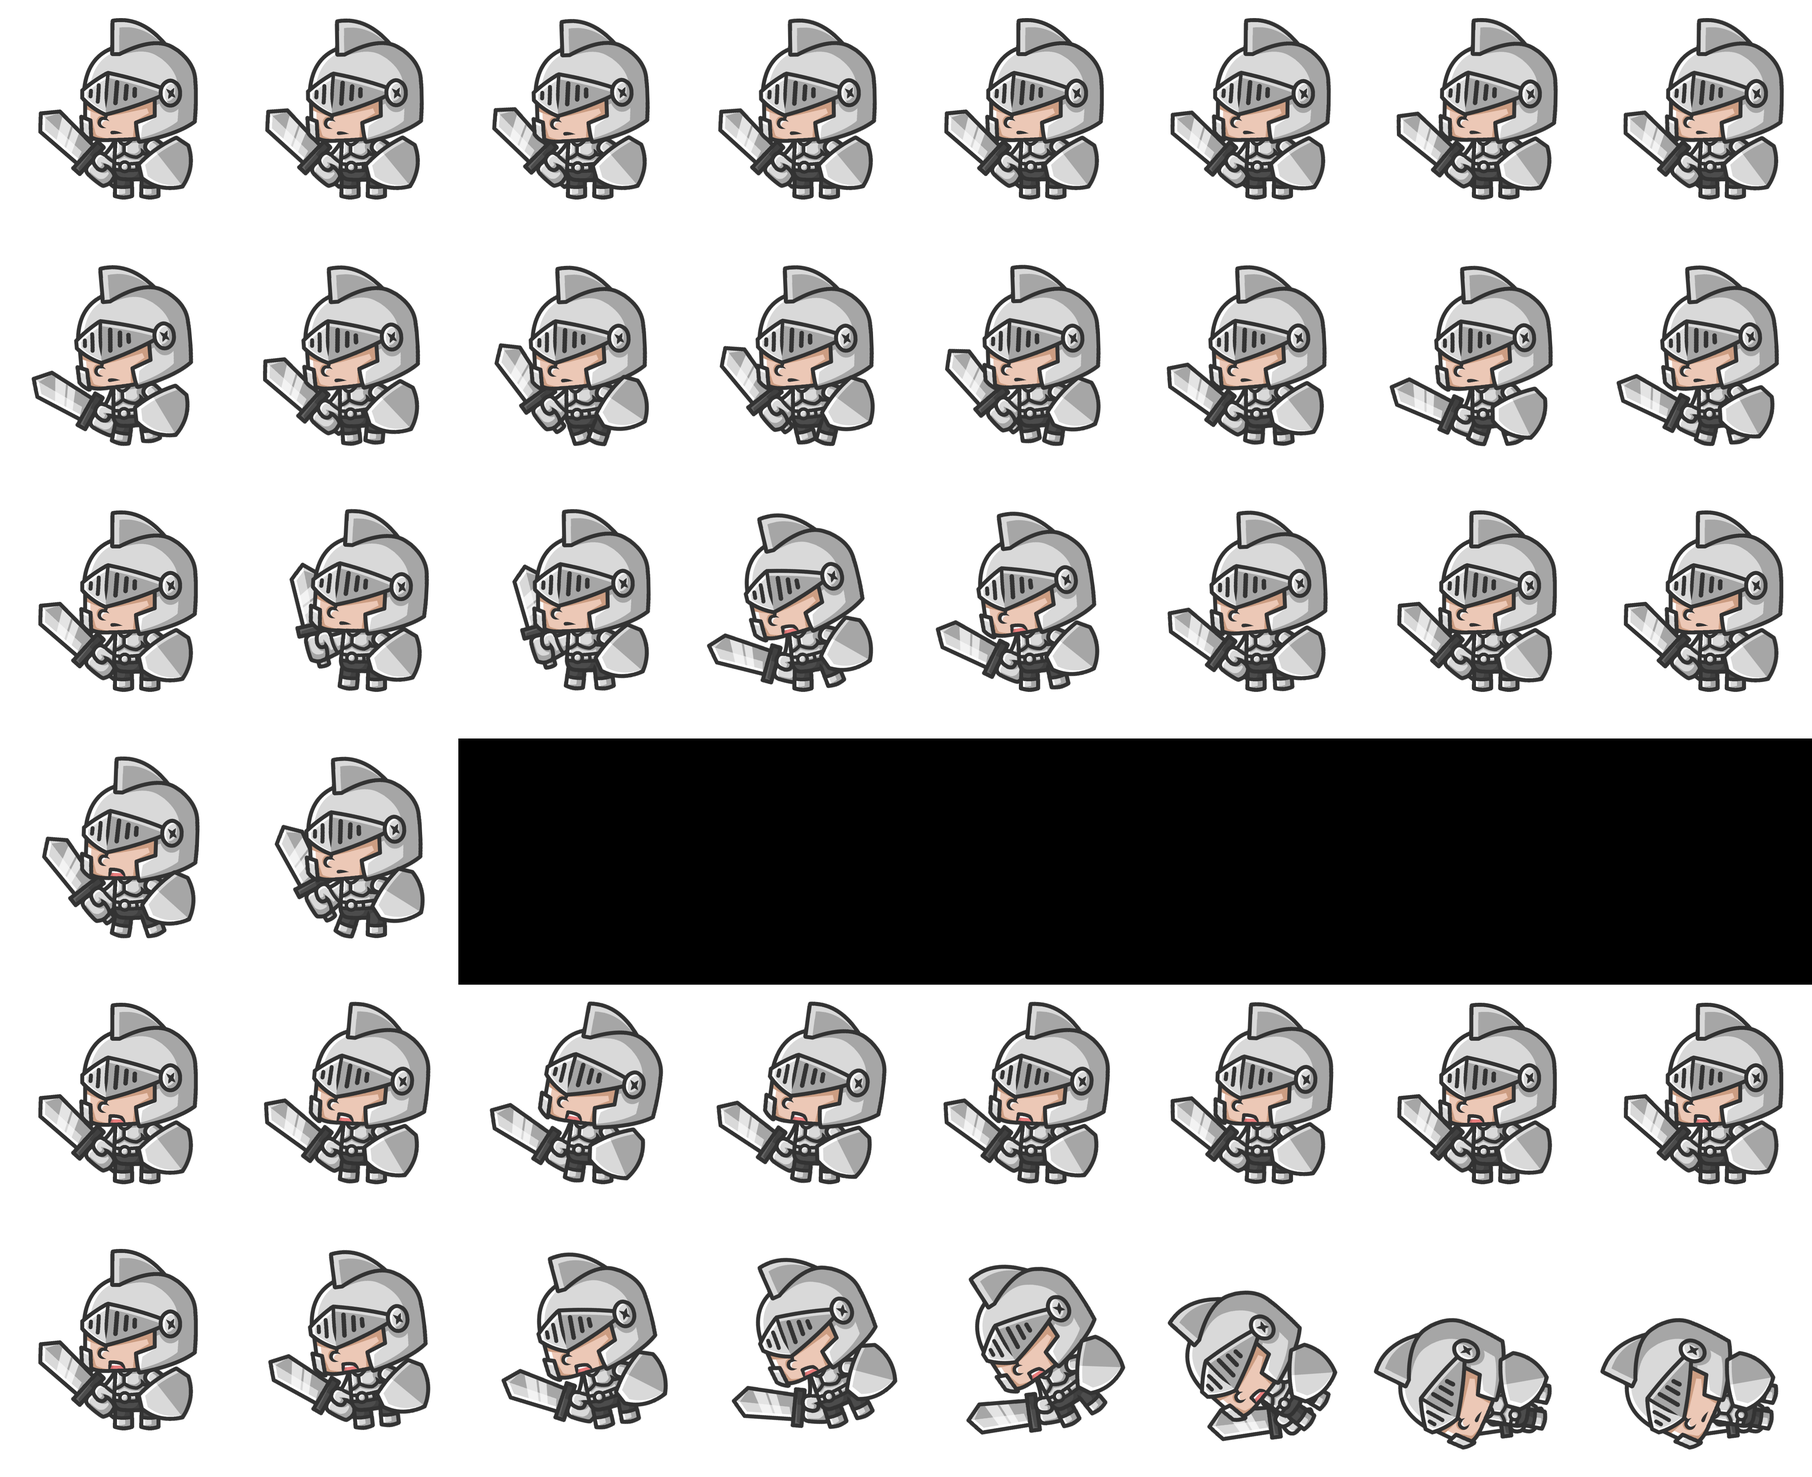
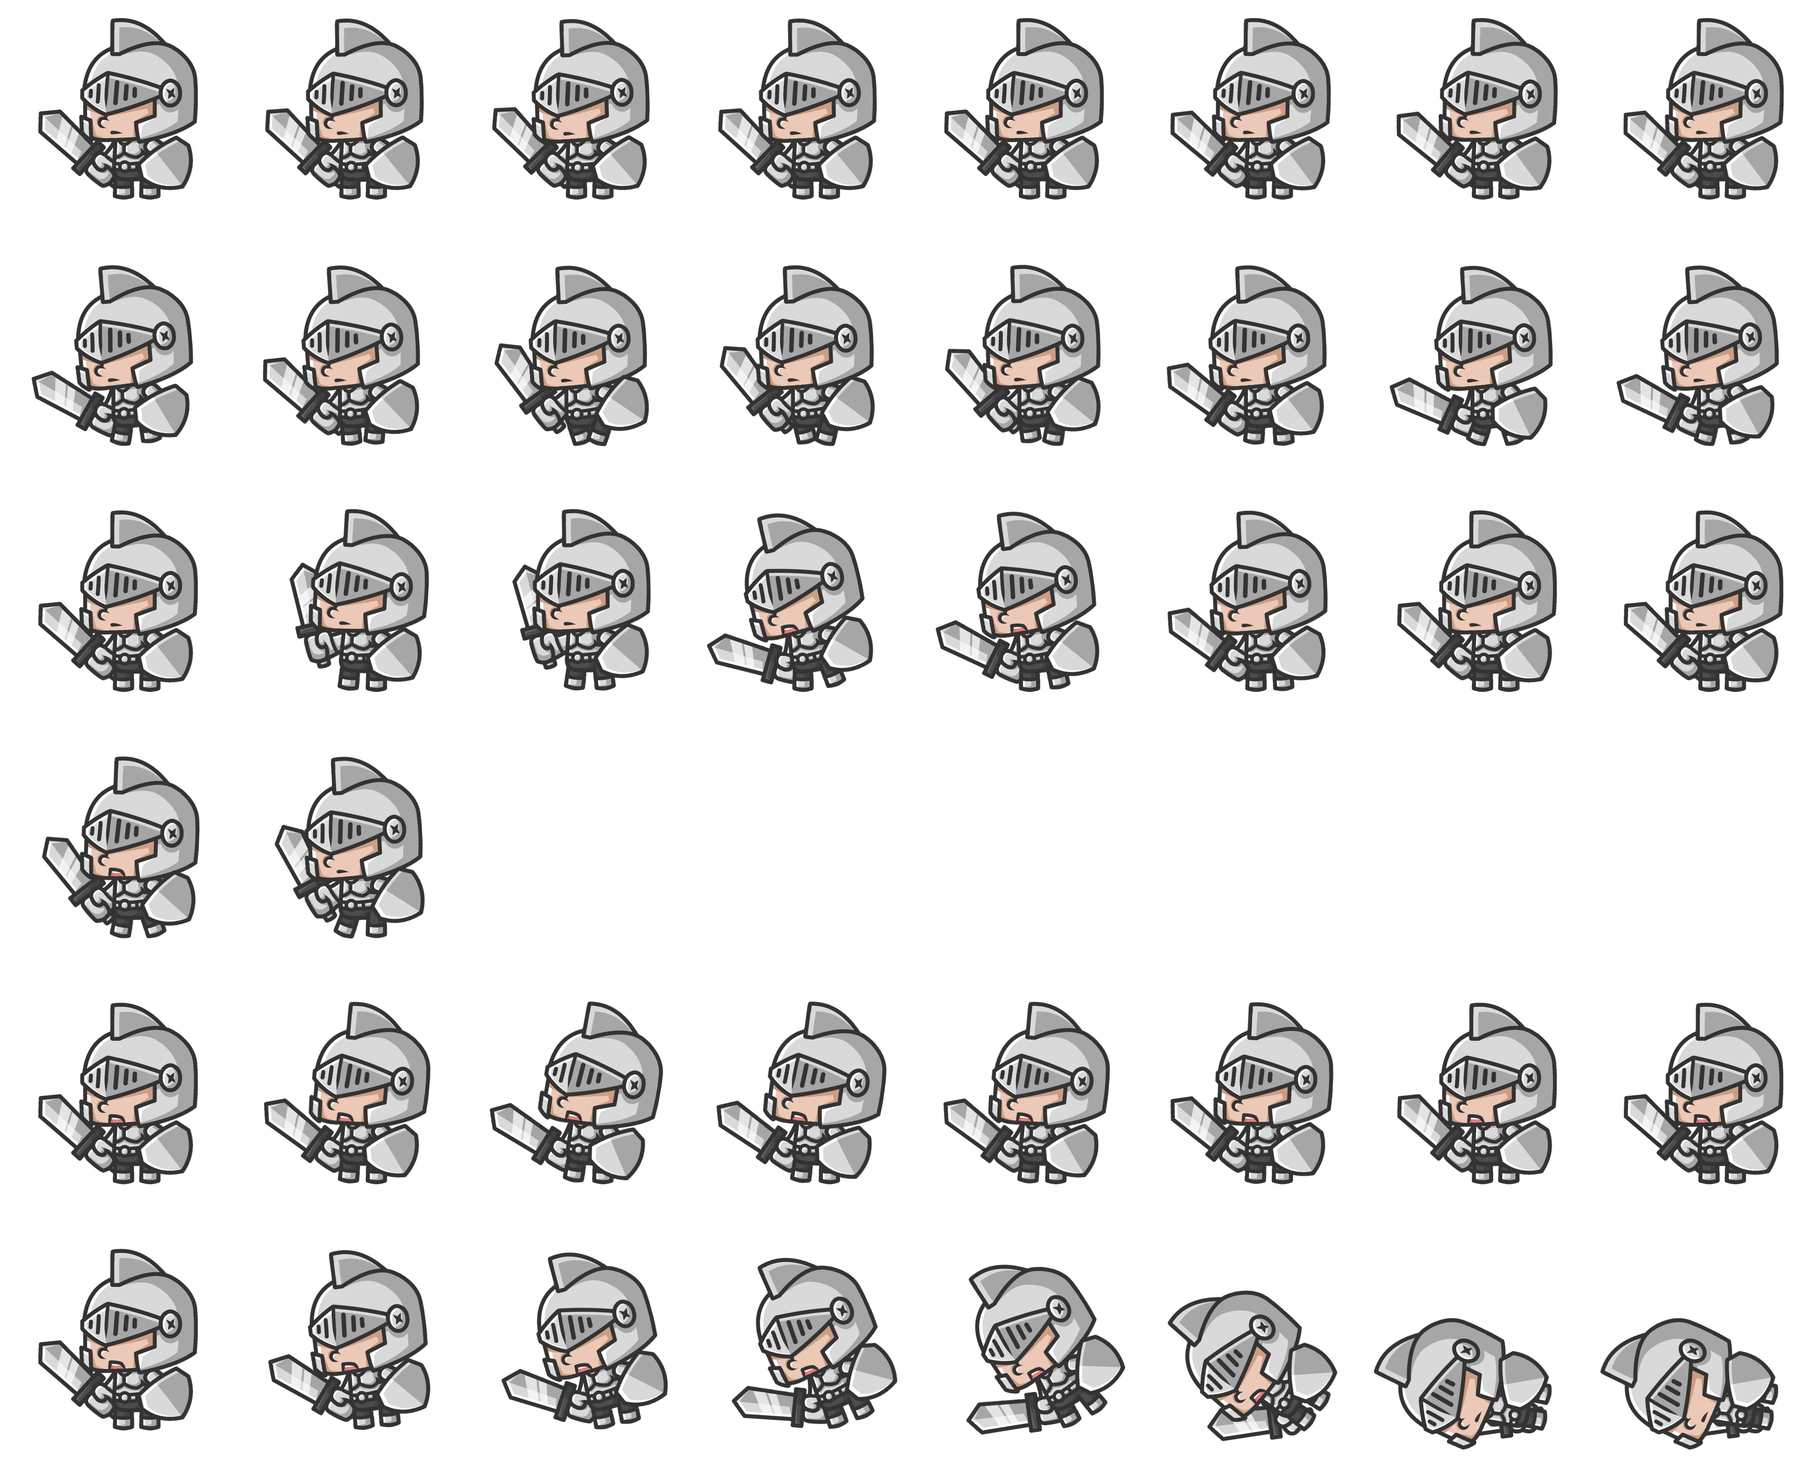
점프시 검은색 픽셀오류 수정
궁극기추가(s)로 발동

Changed region(s): [[0.2491, 0.4994, 1.0, 0.6867]]

diff --git a/prac.c b/prac.c
@@ -5,7 +5,6 @@
 #include <stdbool.h>
 #include <math.h>
 
-// 해상도 설정
 const int SCREEN_W = 1280;
 const int SCREEN_H = 720;
 const int GROUND_Y = 540; 
@@ -17,13 +16,18 @@ typedef enum { S_GREEN, S_BLUE, S_RED, S_YELLOW } SlimeColor;
 
 struct Player {
     float x, y, dy;
-    int hp, mp;
+    int hp, max_hp;
+    int lv, exp;
+    int atk;
     PlayerState state;
     int frame, timer, max_frames;
     int attack_timer, hurt_timer, inv_timer;
+    int ult_visual_timer; 
+    bool ult_used; // ★ 궁극기 사용 여부 플래그 추가
     bool isGrounded;
     SDL_RendererFlip flip;
-} player = {100, 540, 0, 100, 50, IDLE, 0, 0, 8, 0, 0, 0, true, SDL_FLIP_NONE};
+    int ground_offset; 
+} player = {100, 440, 0, 100, 100, 1, 0, 40, IDLE, 0, 0, 8, 0, 0, 0, 0, false, true, SDL_FLIP_NONE, 100};
 
 struct Monster {
     float x, y;
@@ -34,6 +38,7 @@ struct Monster {
     int frame, timer;
     int size; 
     int hurt_timer;
+    float speed;
 };
 
 struct Item { float x, y; bool active; } potion = {0, 0, false};
@@ -44,19 +49,30 @@ int currentStage = 1;
 int monsterCount = 1;
 GameState gameState = STATE_PLAYING;
 
-// 스테이지 초기화 함수
+void checkLevelUp() {
+    if (player.lv < 3 && player.exp >= 2) {
+        player.lv++;
+        player.exp = 0;
+        if (player.lv == 2) {
+            player.atk = 65; player.max_hp = 150; player.hp = player.max_hp;
+        } else if (player.lv == 3) {
+            player.atk = 100; player.max_hp = 200; player.hp = player.max_hp;
+        }
+    }
+}
+
 void initStage(int stage) {
     if (stage == 1) {
         monsterCount = 1;
-        monsters[0] = (struct Monster){900, GROUND_Y - 140, 100, 100, true, false, M_IDLE, S_GREEN, 0, 0, 150, 0};
+        monsters[0] = (struct Monster){900, GROUND_Y - 140, 100, 100, true, false, M_IDLE, S_GREEN, 0, 0, 150, 0, 1.8f}; 
     } else if (stage == 2) {
         monsterCount = 3;
-        monsters[0] = (struct Monster){700, GROUND_Y - 130, 80, 80, true, false, M_IDLE, S_BLUE, 0, 0, 130, 0};
-        monsters[1] = (struct Monster){900, GROUND_Y - 130, 80, 80, true, false, M_IDLE, S_BLUE, 0, 0, 130, 0};
-        monsters[2] = (struct Monster){1100, GROUND_Y - 140, 100, 100, true, false, M_IDLE, S_RED, 0, 0, 150, 0};
+        monsters[0] = (struct Monster){700, GROUND_Y - 130, 100, 100, true, false, M_IDLE, S_BLUE, 0, 0, 130, 0, 2.2f};
+        monsters[1] = (struct Monster){900, GROUND_Y - 130, 100, 100, true, false, M_IDLE, S_BLUE, 0, 0, 130, 0, 2.0f};
+        monsters[2] = (struct Monster){1100, GROUND_Y - 140, 180, 180, true, false, M_IDLE, S_RED, 0, 0, 150, 0, 1.5f};
     } else if (stage == 3) {
         monsterCount = 1;
-        monsters[0] = (struct Monster){900, GROUND_Y - 340, 500, 500, true, true, M_IDLE, S_YELLOW, 0, 0, 400, 0};
+        monsters[0] = (struct Monster){900, GROUND_Y - 340, 1000, 1000, true, true, M_IDLE, S_YELLOW, 0, 0, 400, 0, 1.0f};
     }
     potion.active = false;
     bossBullet.active = false;
@@ -78,7 +94,7 @@ int main(int argc, char* argv[]) {
     IMG_Init(IMG_INIT_PNG);
     TTF_Init();
 
-    SDL_Window* win = SDL_CreateWindow("C-RPG Final Edition (1280x720)", SDL_WINDOWPOS_CENTERED, SDL_WINDOWPOS_CENTERED, SCREEN_W, SCREEN_H, 0);
+    SDL_Window* win = SDL_CreateWindow("C-RPG: Ult Limited", SDL_WINDOWPOS_CENTERED, SDL_WINDOWPOS_CENTERED, SCREEN_W, SCREEN_H, 0);
     SDL_Renderer* ren = SDL_CreateRenderer(win, -1, SDL_RENDERER_ACCELERATED);
 
     TTF_Font* font = TTF_OpenFont("font.ttf", 28);
@@ -92,7 +108,6 @@ int main(int argc, char* argv[]) {
     SDL_Texture* bgTex1 = IMG_LoadTexture(ren, "bg_stage1.png");
     SDL_Texture* bgTex2 = IMG_LoadTexture(ren, "bg_stage2.png");
     SDL_Texture* bgTexBoss = IMG_LoadTexture(ren, "bg_boss.png");
-    
     SDL_Texture* iTex = IMG_LoadTexture(ren, "item.png");
     SDL_SetTextureBlendMode(iTex, SDL_BLENDMODE_BLEND);
 
@@ -110,21 +125,34 @@ int main(int argc, char* argv[]) {
                         player.attack_timer = 30; player.state = ATTACK; player.frame = 0;
                         for(int i=0; i<monsterCount; i++) {
                             if (monsters[i].alive && monsters[i].animState != M_DEAD) {
-                                float range = monsters[i].isBoss ? 300 : 180;
-                                if (fabs(player.x - monsters[i].x) < range) {
-                                    monsters[i].hp -= 40;
-                                    if (monsters[i].hp <= 0) { monsters[i].animState = M_DEAD; monsters[i].frame = 0; }
+                                float range = monsters[i].isBoss ? 400 : 220;
+                                if (fabs((player.x + 90) - (monsters[i].x + monsters[i].size/2)) < range && 
+                                    fabs((player.y + 100) - (monsters[i].y + monsters[i].size/2)) < 300) {
+                                    monsters[i].hp -= player.atk;
+                                    if (monsters[i].hp <= 0) { monsters[i].animState = M_DEAD; monsters[i].frame = 0; player.exp++; checkLevelUp(); }
                                     else { monsters[i].animState = M_HURT; monsters[i].hurt_timer = 20; monsters[i].frame = 0; }
                                 }
                             }
                         }
                     }
+                    // 궁극기 (S) - 레벨 3이고 아직 사용하지 않았을 때만 가능
+                    if (ev.key.keysym.sym == SDLK_s && player.lv == 3 && !player.ult_used && player.ult_visual_timer <= 0) {
+                        player.ult_visual_timer = 40; 
+                        player.ult_used = true; // ★ 사용됨으로 표시
+                        for(int i=0; i<monsterCount; i++) {
+                            if (monsters[i].alive && monsters[i].animState != M_DEAD) {
+                                monsters[i].hp -= 250; 
+                                if (monsters[i].hp <= 0) { monsters[i].animState = M_DEAD; monsters[i].frame = 0; player.exp++; checkLevelUp(); }
+                                else { monsters[i].animState = M_HURT; monsters[i].hurt_timer = 30; }
+                            }
+                        }
+                    }
                     if (ev.key.keysym.sym == SDLK_SPACE && player.isGrounded && player.attack_timer <= 0) {
-                        player.dy = -18.0f; player.isGrounded = false;
+                        player.dy = -22.0f; player.isGrounded = false;
                     }
                 } else if (ev.key.keysym.sym == SDLK_r) { 
                     currentStage = 1; initStage(1);
-                    player = (struct Player){100, 540, 0, 100, 50, IDLE, 0, 0, 8, 0, 0, 0, true, SDL_FLIP_NONE};
+                    player = (struct Player){100, 440, 0, 100, 100, 1, 0, 40, IDLE, 0, 0, 8, 0, 0, 0, 0, false, true, SDL_FLIP_NONE, 100};
                     gameState = STATE_PLAYING;
                 }
             }
@@ -132,8 +160,8 @@ int main(int argc, char* argv[]) {
 
         if (gameState == STATE_PLAYING) {
             const Uint8* ks = SDL_GetKeyboardState(NULL);
-            if (!player.isGrounded) { player.dy += 1.0f; player.y += player.dy; }
-            if (player.y >= GROUND_Y) { player.y = GROUND_Y; player.dy = 0; player.isGrounded = true; }
+            if (!player.isGrounded) { player.dy += 1.2f; player.y += player.dy; }
+            if (player.y >= GROUND_Y - player.ground_offset) { player.y = GROUND_Y - player.ground_offset; player.dy = 0; player.isGrounded = true; }
 
             if (player.hp > 0 && player.hurt_timer <= 0 && player.attack_timer <= 0) {
                 if (ks[SDL_SCANCODE_LEFT] && player.x > 0) { player.x -= 7; player.state = RUN; player.flip = SDL_FLIP_NONE; }
@@ -152,10 +180,7 @@ int main(int argc, char* argv[]) {
                     monsters[i].timer++;
                     if (monsters[i].timer >= 6) {
                         monsters[i].frame++;
-                        if (monsters[i].frame >= 6) { 
-                            monsters[i].alive = false; 
-                            if (!potion.active) { potion.x = monsters[i].x; potion.y = GROUND_Y + 50; potion.active = true; }
-                        }
+                        if (monsters[i].frame >= 6) { monsters[i].alive = false; if (!potion.active) { potion.x = monsters[i].x; potion.y = GROUND_Y + 50; potion.active = true; } }
                         monsters[i].timer = 0;
                     }
                 } else if (monsters[i].animState == M_HURT) {
@@ -163,8 +188,13 @@ int main(int argc, char* argv[]) {
                     if (monsters[i].timer >= 5) { monsters[i].frame = (monsters[i].frame + 1) % 4; monsters[i].timer = 0; }
                     if (monsters[i].hurt_timer <= 0) monsters[i].animState = M_IDLE;
                 } else {
-                    float dist = fabs(player.x - monsters[i].x);
-                    if (dist < 250 && monsters[i].animState == M_IDLE) monsters[i].animState = M_ATTACK;
+                    float dist = fabs((player.x + 90) - (monsters[i].x + monsters[i].size/2));
+                    float stopDist = monsters[i].isBoss ? 350.0f : 110.0f;
+                    if (dist > stopDist && monsters[i].animState != M_ATTACK) {
+                        if (monsters[i].x < player.x) monsters[i].x += monsters[i].speed;
+                        else if (monsters[i].x > player.x) monsters[i].x -= monsters[i].speed;
+                    } else if (monsters[i].animState == M_IDLE) monsters[i].animState = M_ATTACK;
+
                     monsters[i].timer++;
                     if (monsters[i].timer >= 8) {
                         int m_max = (monsters[i].animState == M_IDLE) ? 8 : 6;
@@ -172,23 +202,20 @@ int main(int argc, char* argv[]) {
                         if (monsters[i].animState == M_ATTACK && monsters[i].frame == 0) monsters[i].animState = M_IDLE;
                         monsters[i].timer = 0;
                     }
-                    int collX = monsters[i].isBoss ? 160 : 70;
-                    if (player.inv_timer <= 0 && dist < collX && fabs(player.y - monsters[i].y) < 250) {
+                    int collX = monsters[i].isBoss ? 200 : 100;
+                    if (player.inv_timer <= 0 && dist < collX && fabs((player.y + 100) - (monsters[i].y + monsters[i].size/2)) < 200) {
                         player.hp -= 15; player.hurt_timer = 25; player.inv_timer = 60;
                         player.x += (player.x < monsters[i].x) ? -100 : 100;
                     }
                 }
             }
 
-            if (potion.active && fabs(player.x - potion.x) < 60) {
-                player.hp = (player.hp + 30 > 100) ? 100 : player.hp + 30; potion.active = false;
-            }
-
+            if (potion.active && fabs(player.x - potion.x) < 60) { player.hp = (player.hp + 30 > player.max_hp) ? player.max_hp : player.hp + 30; potion.active = false; }
             if (currentStage == 3 && monsters[0].alive && monsters[0].animState != M_DEAD) {
                 bossAttackTimer++;
                 if (bossAttackTimer > 90) {
                     bossBullet.active = true; bossBullet.x = monsters[0].x + 180; bossBullet.y = monsters[0].y + 180;
-                    float dx = player.x - bossBullet.x, dy = player.y - bossBullet.y;
+                    float dx = (player.x + 90) - bossBullet.x, dy = (player.y + 100) - bossBullet.y;
                     float d = sqrt(dx*dx + dy*dy);
                     bossBullet.vx = (dx/d)*10; bossBullet.vy = (dy/d)*10;
                     bossAttackTimer = 0;
@@ -196,48 +223,48 @@ int main(int argc, char* argv[]) {
             }
             if (bossBullet.active) {
                 bossBullet.x += bossBullet.vx; bossBullet.y += bossBullet.vy;
-                if (player.inv_timer <= 0 && fabs(player.x-bossBullet.x)<50 && fabs(player.y-bossBullet.y)<120) {
+                if (player.inv_timer <= 0 && fabs((player.x+90)-bossBullet.x)<50 && fabs((player.y+100)-bossBullet.y)<100) {
                     player.hp -= 10; player.hurt_timer = 20; player.inv_timer = 40; bossBullet.active = false;
                 }
                 if (bossBullet.x < 0 || bossBullet.x > SCREEN_W || bossBullet.y > SCREEN_H) bossBullet.active = false;
             }
-
             bool allDead = true;
             for(int i=0; i<monsterCount; i++) if (monsters[i].alive) allDead = false;
-            if (allDead) {
-                if (currentStage < 3) { currentStage++; initStage(currentStage); player.x = 100; }
-                else gameState = STATE_VICTORY;
-            }
+            if (allDead) { if (currentStage < 3) { currentStage++; initStage(currentStage); player.x = 100; } else gameState = STATE_VICTORY; }
             if (player.hp <= 0) gameState = STATE_GAME_OVER;
-            
             player.timer++;
             if (player.timer >= 7) {
-                // 점프 시 이미지 개수에 맞게 최대 프레임을 2로 제한 (검은 박스 방지)
                 player.max_frames = (player.state == JUMP) ? 2 : 8;
                 if (player.state == DIE && player.frame == 7) player.frame = 7;
                 else player.frame = (player.frame + 1) % player.max_frames;
                 player.timer = 0;
             }
             if (player.inv_timer > 0) player.inv_timer--;
+            if (player.ult_visual_timer > 0) player.ult_visual_timer--; 
         }
 
         // --- 렌더링 ---
         SDL_RenderClear(ren);
         SDL_Rect bgRect = {0, 0, SCREEN_W, SCREEN_H};
-        
-        SDL_Texture* curBG = bgTex1;
-        if (currentStage == 2) curBG = bgTex2;
-        else if (currentStage == 3) curBG = bgTexBoss;
-        SDL_RenderCopy(ren, curBG, NULL, &bgRect);
+        SDL_RenderCopy(ren, (currentStage == 1 ? bgTex1 : (currentStage == 2 ? bgTex2 : bgTexBoss)), NULL, &bgRect);
 
         if (gameState != STATE_PLAYING) {
             SDL_Color col = (gameState == STATE_VICTORY) ? (SDL_Color){0,255,0} : (SDL_Color){255,0,0};
             drawText(ren, bigFont, (gameState == STATE_VICTORY) ? "VICTORY!" : "GAME OVER", SCREEN_W/2 - 200, SCREEN_H/2 - 100, col);
             drawText(ren, font, "Press 'R' to Restart", SCREEN_W/2 - 120, SCREEN_H/2 + 50, (SDL_Color){255,255,255});
         } else {
+            // 몬스터 및 아이템 렌더링 (동일)
             if (potion.active) { SDL_Rect iR = {(int)potion.x, (int)potion.y, 60, 60}; SDL_RenderCopy(ren, iTex, NULL, &iR); }
             for(int i=0; i<monsterCount; i++) {
                 if (monsters[i].alive) {
+                    int m_hpBarW = monsters[i].isBoss ? 250 : 100;
+                    int m_hpBarY = (int)monsters[i].y + (int)(monsters[i].size * 0.2f); 
+                    SDL_Rect m_hpBG = {(int)monsters[i].x + (monsters[i].size - m_hpBarW)/2, m_hpBarY, m_hpBarW, 12};
+                    SDL_SetRenderDrawColor(ren, 40, 40, 40, 255); SDL_RenderFillRect(ren, &m_hpBG);
+                    float m_hpPercent = (float)monsters[i].hp / monsters[i].max_hp;
+                    if (m_hpPercent < 0) m_hpPercent = 0;
+                    SDL_Rect m_hpFG = {m_hpBG.x, m_hpBG.y, (int)(m_hpBarW * m_hpPercent), 12};
+                    SDL_SetRenderDrawColor(ren, 255, 0, 0, 255); SDL_RenderFillRect(ren, &m_hpFG);
                     int colorRow = monsters[i].color * 5;
                     int animRow = (monsters[i].animState == M_IDLE) ? 0 : (monsters[i].animState == M_ATTACK ? 3 : (monsters[i].animState == M_HURT ? 2 : 4));
                     SDL_Rect mSrc = { monsters[i].frame * 32, (colorRow + animRow) * 32, 32, 32 };
@@ -246,23 +273,39 @@ int main(int argc, char* argv[]) {
                     SDL_RenderCopyEx(ren, mTex, &mSrc, &mDst, 0, NULL, mFlip);
                 }
             }
-            if (bossBullet.active) {
-                SDL_SetRenderDrawColor(ren, 255, 255, 0, 255);
-                SDL_Rect bR = {(int)bossBullet.x, (int)bossBullet.y, 25, 25}; SDL_RenderFillRect(ren, &bR);
-            }
-            
-            // 플레이어 렌더링 로직 (프레임 0~1만 순환하므로 옆의 검은 공간을 그리지 않음)
+            if (bossBullet.active) { SDL_SetRenderDrawColor(ren, 255, 255, 0, 255); SDL_Rect bR = {(int)bossBullet.x, (int)bossBullet.y, 25, 25}; SDL_RenderFillRect(ren, &bR); }
             SDL_Rect pSrc = { player.frame * 550, player.state * 598, 550, 598 };
             SDL_Rect pDst = { (int)player.x, (int)player.y, 180, 200 };
             if (player.inv_timer % 10 < 5) SDL_RenderCopyEx(ren, pTex, &pSrc, &pDst, 0, NULL, player.flip);
             
-            char b[64]; sprintf(b, "STAGE %d  HP %d", currentStage, player.hp);
-            drawText(ren, font, b, 40, 40, (SDL_Color){255,255,255});
+            if (player.ult_visual_timer > 0) {
+                SDL_SetRenderDrawBlendMode(ren, SDL_BLENDMODE_BLEND);
+                SDL_SetRenderDrawColor(ren, 255, 255, 255, player.ult_visual_timer * 6); 
+                SDL_RenderFillRect(ren, NULL); 
+            }
+
+            // UI 렌더링
+            char info[128]; sprintf(info, "LV %d  EXP %d/2  STAGE %d", player.lv, player.exp, currentStage);
+            drawText(ren, font, info, 40, 20, (SDL_Color){255, 255, 0});
+            
+            // ★ ULTIMATE READY 텍스트 위치를 480으로 이동 (기존 350)
+            // 아직 사용하지 않았을 때만 표시
+            if (player.lv == 3 && !player.ult_used) drawText(ren, font, "ULTIMATE READY (S)", 480, 20, (SDL_Color){0, 255, 255}); 
+            
+            sprintf(info, "HP %d / %d", player.hp > 0 ? player.hp : 0, player.max_hp);
+            drawText(ren, font, info, 40, 55, (SDL_Color){255, 255, 255});
+            int p_hpBarW = 300 + (player.lv - 1) * 50;
+            SDL_Rect p_hpBG = { 40, 95, p_hpBarW, 20 };
+            SDL_SetRenderDrawColor(ren, 40, 40, 40, 255); SDL_RenderFillRect(ren, &p_hpBG);
+            float p_hpPercent = (float)player.hp / player.max_hp;
+            SDL_Rect p_hpFG = { 40, 95, (int)(p_hpBarW * (p_hpPercent < 0 ? 0 : p_hpPercent)), 20 };
+            SDL_SetRenderDrawColor(ren, 255, 0, 0, 255); SDL_RenderFillRect(ren, &p_hpFG);
+            SDL_SetRenderDrawColor(ren, 200, 200, 200, 255); SDL_RenderDrawRect(ren, &p_hpBG);
         }
         SDL_RenderPresent(ren);
         SDL_Delay(16);
     }
-
+ 
     TTF_CloseFont(font); TTF_CloseFont(bigFont);
     SDL_DestroyTexture(pTex); SDL_DestroyTexture(mTex); 
     SDL_DestroyTexture(bgTex1); SDL_DestroyTexture(bgTex2); SDL_DestroyTexture(bgTexBoss);
